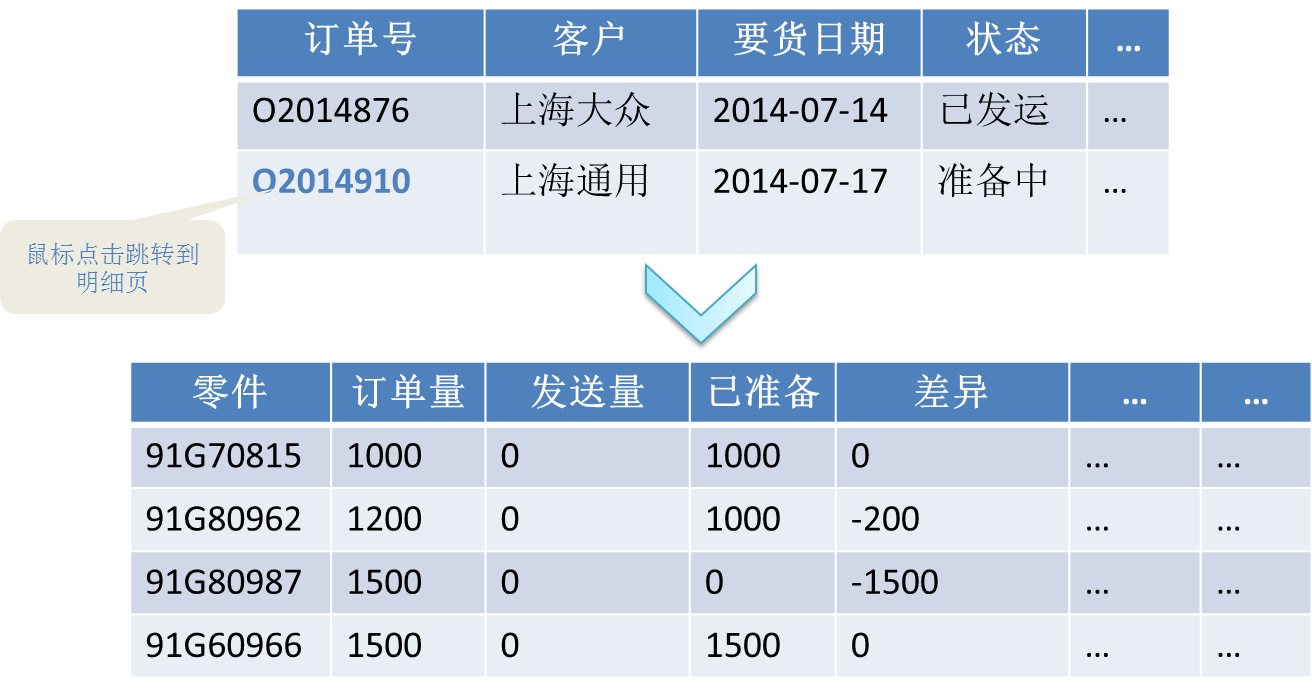
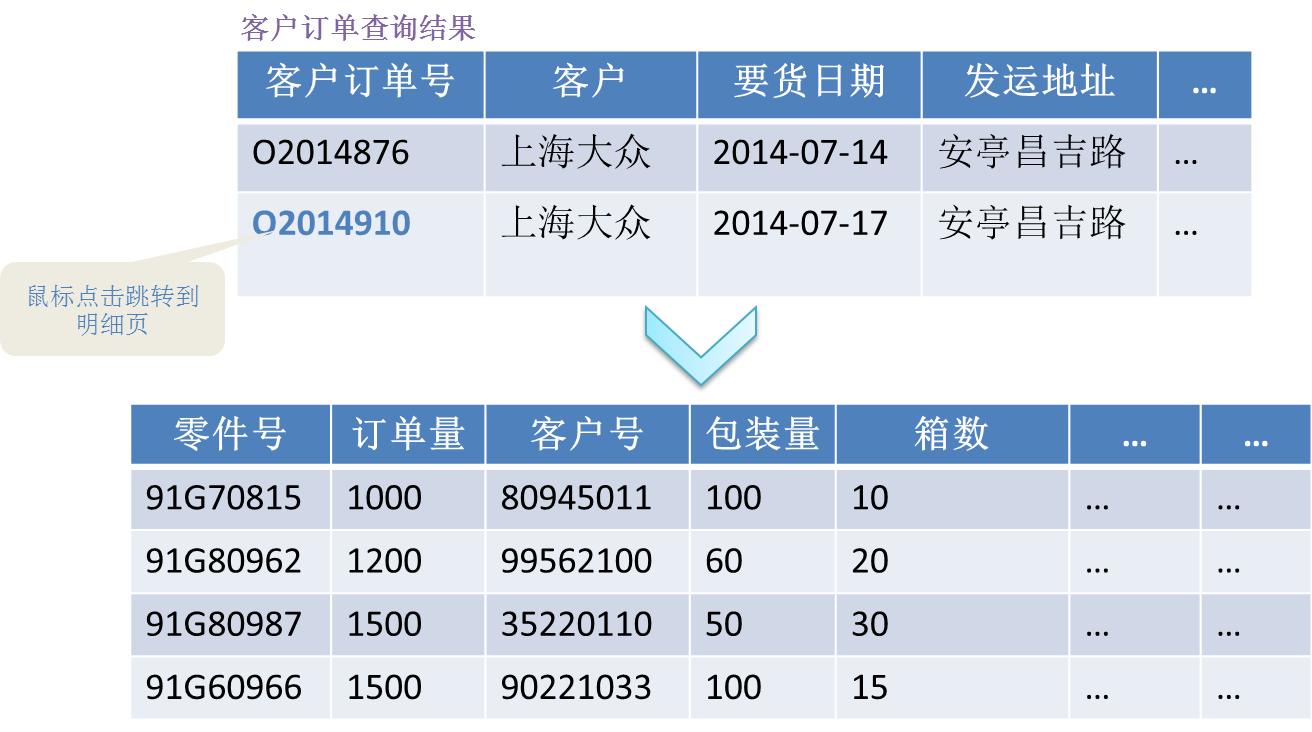
change order

Changed region(s): [[0.0938, 0.3957, 1.0, 0.9739], [0.0, 0.0, 0.9688, 0.487]]

diff --git a/order-manage.html b/order-manage.html
@@ -37,7 +37,7 @@
         <div class="wrap" id="wrap">
 
           <div class="blog-single-header">
-            <h3><a href="#">订单管理</a></h3>
+            <h3><a href="#">客户订单管理</a></h3>
             <ul>
               <li><a>2014-07-16</a></li>
               <li><a>WMS project</a></li>
@@ -47,28 +47,31 @@
 
           <div class="article-left">
               <div class="blog-single-artical">
-                <h4 id="1" style="margin-top:0px;">1.	订单导入</h4>
-                <h6>WMS订单导入功能，用户可以准确快捷地管理订单，精确控制库存，帮助系统在发运环节检查货物的正确性，减少错发率 。</h6>
-                <p>订单管理员从WEB-EDI系统、客户邮件等通道获取订单数据，通过文件方式上传到WMS系统中。WMS处理每一条订单条目，验证零件、订单量、
-                  订单发货日期等数据是否正确，如果任何一条出现错误，系统给出提示错误并提供错误订单文件下载，管理员可以下载文件，查看错误条目，修改后重新上传。
-                  如果订单没有任何错误，系统显示订单内容详细预览，管理员可确认上传，WMS将数据保存到系统数据库中。
+                <h4 id="1" style="margin-top:0px;">1.	客户订单导入</h4>
+                <h6>WMS客户订单导入功能，用户可以准确快捷地管理订单，精确控制库存，帮助系统在发运环节检查货物的正确性，减少错发率 </h6>
+                <p>客户订单管理员从WEB-EDI系统、客户邮件等通道获取客户订单数据，通过文件方式上传到WMS系统中。
+                	WMS处理每一条订单条目，验证零件、订单量、订单发货日期等数据是否正确，如果任何一条出现错误，
+                	系统给出提示错误并提供错误订单文件下载，管理员可以下载文件，查看错误条目，修改后重新上传。
+                	如果订单没有任何错误，系统显示客户订单内容详细预览，管理员可确认上传，WMS将数据保存到系统数据库中。
                 </p>
                 <div class="pic order-one"></div>
 
-                <h4 id="2">2.	订单库存对比</h4>
+                <h4 id="2">2.	客户订单库存对比</h4>
                 <h6>对比订单量与库存实际量，仓库管理员可以根据差异量调节零件的库存阈值、核对库存实际量等，计划员可以根据差异量调节生产计划。</h6>
-                <p>管理员根据客户、时间、订单号等条件筛选订单，选择其中某一订单进行库存实时对比，系统根据订单内容和实时库存量生成对比报表显示成清晰的表格，库存量可以展开成详明细，同时管理员可以将对比报表下载成文件。</p>
+                <p>管理员根据客户、时间、订单号等条件筛选订单，选择其中某一订单进行库存实时对比，系统根据订单内容和实时库存量生成对比报表显示成清晰的表格，库存量可以展开成详明细。
+                	差异量（差异量=订单量-库存量）使用颜色突出标记：绿色表示差异小于最低库存，红色表示差异量为负值，绿色表示差异大于最低库存。</p>
+                <p>管理员可以将对比报表下载成文件，方便携带查看。</p>
                 <div class="pic order-two"></div>
 
-                <h4 id="3">3.	订单查询</h4>
-                <h6>多种查询条件可以快速精确地定位到订</h6>
-                <p>管理员填写订单号（精确或模糊），选择客户、要货日期、订单状态（包括已导入、准备发运中、已发运等）、发运员工、发运日期等条件组合，查询订单。
-                  WMS筛选出订单列表，管理员选择进入某个进入后可以查看详细订单条目和条目状态（包括已发运、准备中、待发运）。同时管理员可以导出订单文件，用以打印或对账。</p>
+                <h4 id="3">3.	客户订单查询</h4>
+                <h6>多种条件查询方式快速精确地定位到客户订单</h6>
+                <p>管理员填写客户订单号（精确或模糊），选择客户、要货日期等条件组合，查询订单。
+                	WMS筛选出客户订单列表，管理员选择进入某个进入后可以查看详细订单条目。同时管理员可以导出客户订单报表，用以打印或对账。</p>
                 <div class="pic order-three-two"></div>
 
 
-                <h4 id="4">4.	订单报表</h4>
-                <p>订单管理根据订单号、客户、要货日期、订单状态等状态导出订单报表。报表以要货日期或零件为基轴生成统计报表。</p>
+                <h4 id="4">4.	客户订单报表</h4>
+                <p>客户订单管理员根据客户订单号、客户、要货日期导出客户订单报表。报表以要货日期或零件为基轴生成统计报表。</p>
                   <div class="pic order-four"></div>
 
               </div>
@@ -77,10 +80,10 @@
           <div class="article-right">
             <div class="fix-menu" id="fix-menu">
                 <ul>
-                  <li><a href="#1">订单导入</a></li>
-                  <li><a href="#2">订单库存对比</a></li>
-                  <li><a href="#3">订单查询</a></li>
-                  <li><a href="#4">订单报表</a></li>
+                  <li><a href="#1">客户订单导入</a></li>
+                  <li><a href="#2">客户订单库存对比</a></li>
+                  <li><a href="#3">客户订单查询</a></li>
+                  <li><a href="#4">客户订单报表</a></li>
                 </ul>
             </div>
           </div>
